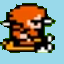
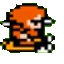
Add, Modify and Remove 	deleted:    20190502.txt 	modified:   ff.html 	deleted:    hanntei.html 	deleted:    images/christale.png 	new file:   images/ffhidari.png 	modified:   images/ffmigi.png 	deleted:    images/ffsensi.png 	new file:   images/ffshita.png 	new file:   images/ffue.png 	modified:   

diff --git a/practice/ff.html b/practice/ff.html
@@ -3,7 +3,26 @@
 <head>
 <title>勇者の終わりなき旅</title>
 <script type="application/javascript">
-let imgMigi = new Image();
+
+/* キー操作用 */
+let flagKeyDown = false;
+
+
+const SHITA = 7;
+const UE = 8;
+const MIGI = 9;
+const HIDARI = 10;
+
+const YAMA = 4;
+const UMI = 2;
+
+let chara_direct = SHITA;
+let chara_x = 5;
+let chara_y = 5;
+
+const map_width = 20;
+const map_height = 20;
+
 let imgTown = new Image();
 let imgNohara = new Image();
 let imgYama = new Image();
@@ -11,6 +30,10 @@ let imgUmi = new Image();
 let imgSabaku = new Image();
 let imgMori = new Image();
 let imgDoukutu = new Image();
+let imgShita = new Image();
+let imgUe = new Image();
+let imgMigi = new Image();
+let imgHidari = new Image();
 let ctx;
 
 
@@ -57,6 +80,26 @@ onload = function() {
 	imgDoukutu.onload = function() {
 		flagDoukutu = true;
 	};
+	let flagShita = false;
+	imgShita.src = "images/ffshita.png";
+	imgShita.onload = function() {
+		flagShita = true;
+	};
+	let flagUe = false;
+	imgUe.src = "images/ffue.png";
+	imgUe.onload = function() {
+		flagUe = true;
+	};
+	let flagMigi = false;
+	imgMigi.src = "images/ffmigi.png";
+	imgMigi.onload = function() {
+		flagMigi = true;
+	};
+	let flagHidari = false;
+	imgHidari.src = "images/ffhidari.png";
+	imgHidari.onload = function() {
+		flagHidari = true;
+	};
 	let hoge = setInterval(function(){
 		clearInterval(hoge);
 		if(flagMori && flagSabaku && flagTown && flagUmi && flagNohara && flagYama) {
@@ -70,16 +113,26 @@ onload = function() {
 
 function start() {
 	const map = [];
-	map.push([2,2,2,2,2,2,2,2,2,2]);
-	map.push([2,0,0,5,5,5,5,5,5,2]);
-	map.push([2,0,2,5,5,4,5,5,5,2]);
-	map.push([2,0,0,5,4,6,4,5,5,2]);
-	map.push([2,0,0,5,4,1,4,5,5,2]);
-	map.push([2,0,1,5,4,3,4,5,5,2]);
-	map.push([2,0,2,5,4,3,4,5,5,2]);
-	map.push([2,0,2,2,0,0,5,0,0,2]);
-	map.push([2,0,2,2,0,0,5,0,0,2]);
-	map.push([2,2,2,2,2,2,2,2,2,2]);
+	map.push([2,2,2,2,2,2,2,2,2,2,2,2,2,2,2,2,2,2,2,2]);
+	map.push([2,2,2,2,2,2,2,2,2,2,2,2,2,2,2,2,2,2,2,2]);
+	map.push([2,2,2,2,2,2,2,2,2,2,2,2,2,2,2,2,2,2,2,2]);
+	map.push([2,2,2,2,2,2,2,2,2,2,2,2,2,2,2,2,2,2,2,2]);
+	map.push([2,2,2,2,2,2,2,2,2,2,2,2,2,2,2,2,2,2,2,2]);
+	map.push([2,2,2,2,2,3,4,5,5,0,0,0,0,0,0,0,2,2,2,2]);
+	map.push([2,2,2,2,2,3,4,5,5,0,0,0,0,0,0,0,2,2,2,2]);
+	map.push([2,2,2,2,2,0,5,0,0,0,0,0,0,0,0,0,2,2,2,2]);
+	map.push([2,2,2,2,2,0,5,0,0,0,0,0,0,0,0,0,2,2,2,2]);
+	map.push([2,2,2,2,2,2,2,2,2,0,0,0,0,0,1,0,2,2,2,2]);
+	map.push([2,2,2,2,2,2,2,2,2,5,5,5,0,0,0,0,2,2,2,2]);
+	map.push([2,2,2,2,2,5,5,5,5,5,5,5,0,0,0,0,2,2,2,2]);
+	map.push([2,2,2,2,2,4,5,5,5,5,5,5,5,0,0,0,2,2,2,2]);
+	map.push([2,2,2,2,2,6,4,5,5,5,5,5,5,0,0,0,2,2,2,2]);
+	map.push([2,2,2,2,2,1,4,5,5,0,0,0,0,0,0,0,2,2,2,2]);
+	map.push([2,2,2,2,2,0,0,0,0,0,0,0,0,0,0,0,2,2,2,2]);
+	map.push([2,2,2,2,2,2,2,2,2,2,2,2,2,2,2,2,2,2,2,2]);
+	map.push([2,2,2,2,2,2,2,2,2,2,2,2,2,2,2,2,2,2,2,2]);
+	map.push([2,2,2,2,2,2,2,2,2,2,2,2,2,2,2,2,2,2,2,2]);
+	map.push([2,2,2,2,2,2,2,2,2,2,2,2,2,2,2,2,2,2,2,2]);
 	const images = [ ];
 	images.push(imgNohara);
 	images.push(imgTown);
@@ -88,11 +141,62 @@ function start() {
 	images.push(imgYama);
 	images.push(imgMori);
 	images.push(imgDoukutu);
-	for(let jj = 0;jj < 10;jj++) {
-		for(let ii = 0;ii < 10;ii++) {
-			ctx.drawImage(images[map[jj][ii]],64*ii,64*jj);
-		};
-	}
+	images.push(imgShita);
+	images.push(imgUe);
+	images.push(imgMigi);
+	images.push(imgHidari);
+
+
+
+	/* マップを描く */
+	const drawMap = function() {
+		for(let jj = 0;jj < 10;jj++) {
+			for(let ii = 0;ii < 10;ii++) {
+				ctx.drawImage(images[map[jj+chara_y-5][ii+chara_x-5]],64*ii,64*jj);
+			};
+		}
+	};
+	drawMap();
+	ctx.drawImage(images[chara_direct],64*5,64*5);
+	/* キャクターを描く */
+	document.addEventListener('keydown',(event) => {
+		if(flagKeyDown == false) {
+			let number = -1;
+			if(event.key == '2') {
+				number = SHITA;
+				if (chara_y+5<20 && map[chara_y+1][chara_x] != YAMA && map[chara_y+1][chara_x] != UMI) {
+					chara_y++;
+				}
+			}
+			if(event.key == '8') {
+				number = UE;
+				if (chara_y-5>0 && map[chara_y-1][chara_x] != YAMA && map[chara_y-1][chara_x] != UMI) {
+					chara_y--;
+				}
+			}
+			if(event.key == '6') {
+				number = MIGI;
+				if (chara_x+5<20 && map[chara_y][chara_x+1] != YAMA && map[chara_y][chara_x+1] != UMI) {
+					chara_x++;
+				}
+			}
+			if(event.key == '4') {
+				number = HIDARI;
+				if (chara_x-5>0 && map[chara_y][chara_x-1] != YAMA && map[chara_y][chara_x-1] != UMI) {
+					chara_x--;
+				}
+			}
+			if(number != -1){
+			drawMap();
+				 chara_direct = number;
+			}
+			ctx.drawImage(images[chara_direct],64*5,64*5);
+			flagKeyDown = true;
+		}
+	},false);
+	document.addEventListener('keyup',(event) => {
+		flagKeyDown = false;
+	},false);
 };
 </script>
 </body>

diff --git a/practice/player/2019_06_07.html b/practice/player/2019_06_07.html
@@ -1,0 +1,68 @@
+<!DOCTYPE html>
+<html>
+	<head>
+		<script type="application/javascript" src="main3.js"></script>
+		<script type="application/javascript">
+
+const names = ["Onishi","Friend","You",""];
+const sentences = [
+// [,,"",""]
+//,[,,"",""]
+ [480,1,"Situation","状況説明"]
+,[480+36,1,"Hint","ヒント"]
+,[540+14,2,"Do you know a good book shop?","いい本屋を知ってる？"]
+,[540+17,3,"I know a great book shop near Saru Station.","猿駅近くにいい本屋があるわ。"]
+,[540+20,3,"Turn right at the east exit,and it's there. ","東口を右にいけば、すぐそこ。"]
+,[540+23.1,3,"Oh,just remembered.","ああ！ちょっと思い出した。"]
+,[540+25.5,3,"Tomorrow I need to go there and pick up a book that I ordered,","明日私もそこへ行って注文していた本を受け取らなくてはならないんだ。"]
+,[540+29,3," so let's have lunch together.","一緒に昼食を食べようよ。"]
+,[540+31,3,"Can you come around 11 o'clock?","11時くらいに来れる？"]
+,[540+33,4,"Abbreviation","中略"]
+,[660+03,2,"Do you know a good book shop?","いい本屋を知ってる？"]
+,[660+5.5,3,"There's a wonderful bookshop ","素晴らしい本屋さんがあるよ、"]
+,[660+7.5,3," right next to exit 2 of Saru Station.","サル駅の２番目の出口の近くに。"]
+,[660+10.5,3,"You just turn right, and it's there.","右に曲がればすぐそこ。"]
+,[660+13,3,"You can't miss it!","絶対迷わないよ。"]
+,[660+15,3,"Actually, tomorrow I have to collect a book I ordered,","実は、明日私も注文していた本を受け取りに行かなくてはならないから、"]
+,[660+18.8,3," so why dont't we enjoy lunch together?","一緒にお昼ご飯を食べようよ。"]
+,[660+21.5,3,"I'll be there around 11:00,","11時頃そこに行くから、"]
+,[660+24,3," so can you come at that time?","その時間に来てくれる？"]
+,[660+26]
+];
+
+const vocabularies = [
+ [58,60,"I already had lunch.","私はもう昼食をとりました。"]
+,[120+51.5,120+56,"Any relationship can turn sour quite quickly.","どんな関係でもかなり急にダメになることがある。"]
+,[240+28,240+30.3,"It looks like it's about to go.","それ(その橋)は落ちてしまいそうだよ。"]
+,[356.6,358.5,"I'm comming.","すぐいきます。"]
+];
+
+const expresses = [
+// [,,,]
+//,[,,,]
+ [540+14,540+17,540+17,540+33]
+,[660+3,660+5.5,660+6,660+26]
+];
+		</script>
+	</head>
+	<body>
+		<video controls id="video" width="420" height="300">
+			<source src="oto/2019_06_07.mp4">
+		</video>
+		<h1>2019年6月7日(金)</h1>
+		<h2>PRACTICAL CHALLENGE</h2>
+		<button onclick="setButtons();">言語切替</button>  <button onclick="clearInterval(hoge);eVideo.pause();">停止</button><br>
+		<div id="conversation"></div>
+		<br><br>
+		<h2>REVIEW</h2>
+		<button onclick="setVocabularies();">言語切替</button>  <button onclick="clearInterval(hoge);eVideo.pause();">停止</button><br>
+		<div id="vocabularies"></div>
+		<h2>PRACTICAL CHALLENGE CONTINUOUS SENTENCES</h2>
+		<div id="express"></div>
+		<br><br>
+		<a href="2019_06_06.html">前日</a>&nbsp;&nbsp;&nbsp;
+		<a href="2019_06_10.html">翌日</a>
+
+
+	</body>
+</html>

diff --git a/practice/player/2019_06_06.html b/practice/player/2019_06_06.html
@@ -29,22 +29,21 @@ const sentences = [
 ];
 
 const vocabularies = [
- [360+11,360+13.5,"It looks like it's about to go.","それ(その橋)は落ちてしまいそうだよ。"]
-,[84,85.3,"We can reach it easily if we go ovr that old bridge.","あの古い橋を渡れば簡単に行けるよ。"]
-,[85.3,87.5,"We can reach it easily if we go ovr that old bridge.","あの古い橋を渡れば簡単に行けるよ。"]
-,[105,106.7,"But if we keep fighting, we will get to our destination.","でも、頑張り続ければ、いつか目的地にたどり着くわ。"]
-,[106.7,109,"But if we keep fighting, we will get to our destination.","でも、頑張り続ければ、いつか目的地にたどり着くわ。"]
-,[360+37.5,360+41,"Let's go, or we'll be late.","もう行こうよ、そうしなければ遅れちゃうから。"]
-,[360+49,360+51,"The pain will go soon.","痛みはすぐに治まりますよ。"]
-,[420+13,420+15,"The engine is gone.","エンジンが壊れてしまった。"]
-,[420+47,420+49,"How is your new job going?","新しい仕事はどんな感じ？"]
-,[478.5,480,"How's it going?","調子はどうですか？"]
+// [,,"",""]
+//,[,,"",""]
+ [360+50,412,"I'm coming.","すぐ行きます。"]
+,[480+10.5,480+13,"What time can you come to the party?","何時ごろパーティーに行くことができますか？"]
+,[480+13,480+14.8,"I'll come around eight.","だいたい8時ごろ行きます。"]
+,[480+39.5,480+41.5,"The rainy season is coming.","梅雨になるよ。"]
+,[480+51,534,"This laptop comes with a leather case.","このラップトップは革のケース付です。"]
+,[94.4,96," but don't you get tired of making the same thing?","同じものを作ってばかりで飽きないの？"]
+,[95.5,98," but don't you get tired of making the same thing?","同じものを作ってばかりで飽きないの？"]
 ];
 
 const expresses = [
- [600+7,670,660+17,660+20]
-,[660+30.7,660+33,708.5,711]
-,[780+13,780+15.5,780+31.5,780+34]
+// [,,,]
+//,[,,,]
+ [621,625,637,641]
 ];
 		</script>
 	</head>
@@ -63,6 +62,12 @@ const expresses = [
 		<h2>EXPRESS YOURSELF IN ENGLISH</h2>
 		<div id="express"></div>
 		<br>
+		追加問題
+		<ul>
+		<li>この地域のアパートは安くは買えませんよ。
+		<li>すみません。いまのところ、何も思いつきません。
+		</ul>
+		解答は6月号29ページ<br><br>
 		<a href="2019_06_05.html">前日</a>&nbsp;&nbsp;&nbsp;
 		<a href="2019_06_07.html">翌日</a>
 
